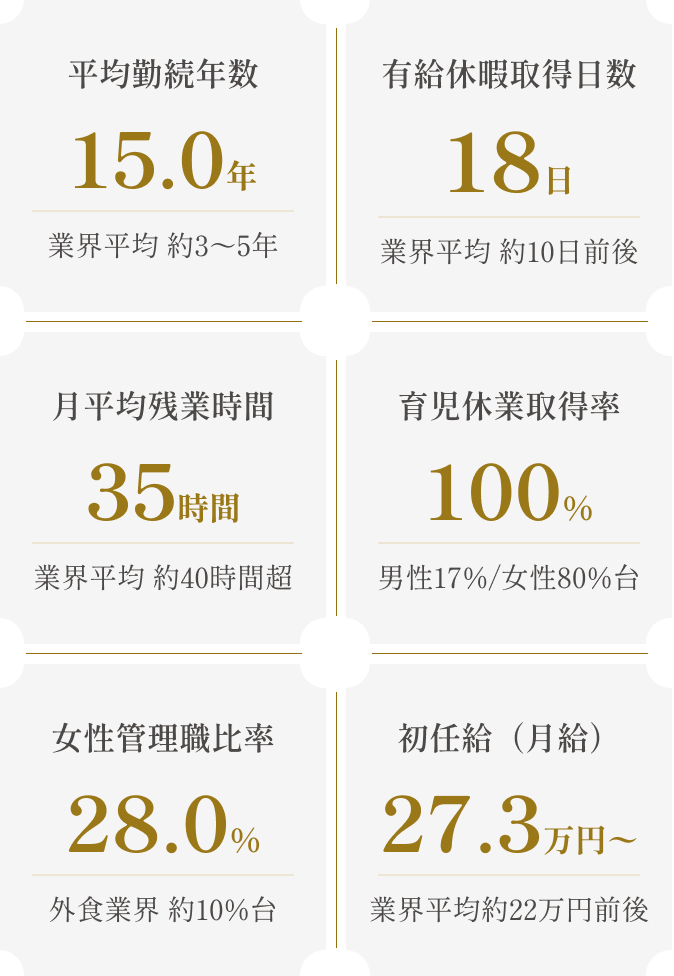
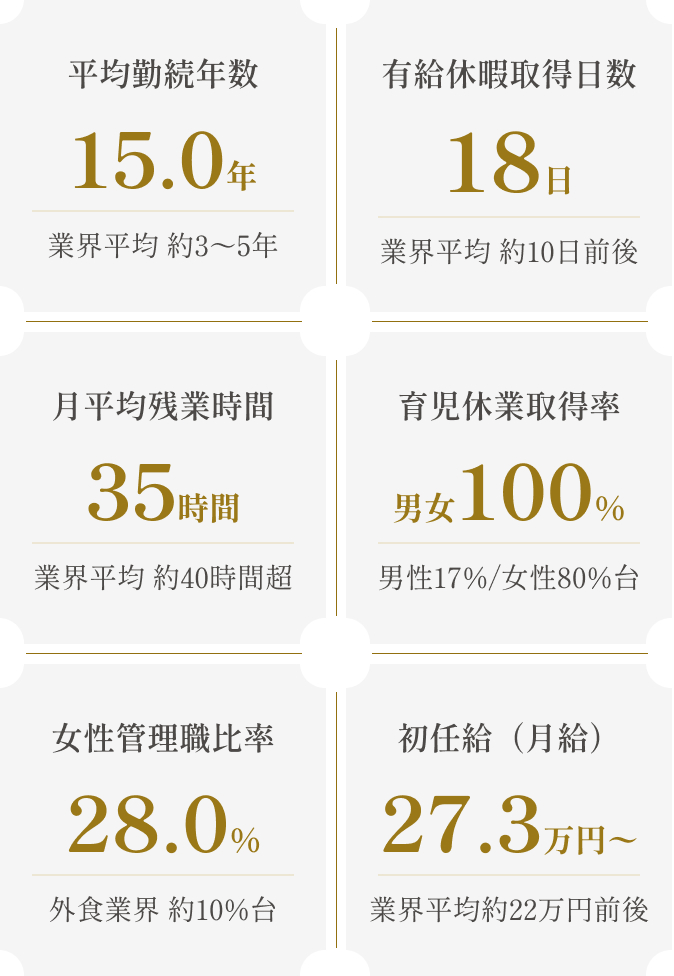
OGP画像をjpgからpngに変更し、参照コードを更新

Changed region(s): [[0.592, 0.4611, 0.9347, 0.5533]]

diff --git a/index.html b/index.html
@@ -23,7 +23,7 @@
     <meta property="og:description"
         content="「大切な瞬間に、最高の記憶を。」中条商事株式会社の採用サイトです。半世紀にわたり最高峰の中国料理とサービスを提供してきた当社では、新卒・中途のスタッフを募集しています。唯一無二のおもてなしと技術を、ともに学び高め合いませんか？" />
     <meta property="og:url" content="https://www.chuugokuhanten.com/recruit" />
-    <meta property="og:image" content="https://www.chuugokuhanten.com/recruit/img/ogp.jpg" />
+    <meta property="og:image" content="https://www.chuugokuhanten.com/recruit/img/ogp.png" />
     <meta property="og:site_name" content="中条商事株式会社 採用サイト" />
     <meta property="og:locale" content="ja_JP" />
     <!-- Twitter Card -->
@@ -31,7 +31,7 @@
     <meta name="twitter:title" content="採用サイト｜中条商事株式会社 - 大切な瞬間に、最高の記憶を。" />
     <meta name="twitter:description"
         content="「大切な瞬間に、最高の記憶を。」中条商事株式会社の採用サイトです。半世紀にわたり最高峰の中国料理とサービスを提供してきた当社では、新卒・中途のスタッフを募集しています。唯一無二のおもてなしと技術を、ともに学び高め合いませんか？" />
-    <meta name="twitter:image" content="https://www.chuugokuhanten.com/recruit/img/ogp.jpg" />
+    <meta name="twitter:image" content="https://www.chuugokuhanten.com/recruit/img/ogp.png" />
     <!-- Google tag (gtag.js) -->
     <script async src="https://www.googletagmanager.com/gtag/js?id=G-J2Y8SYMZN4"></script>
     <script>
